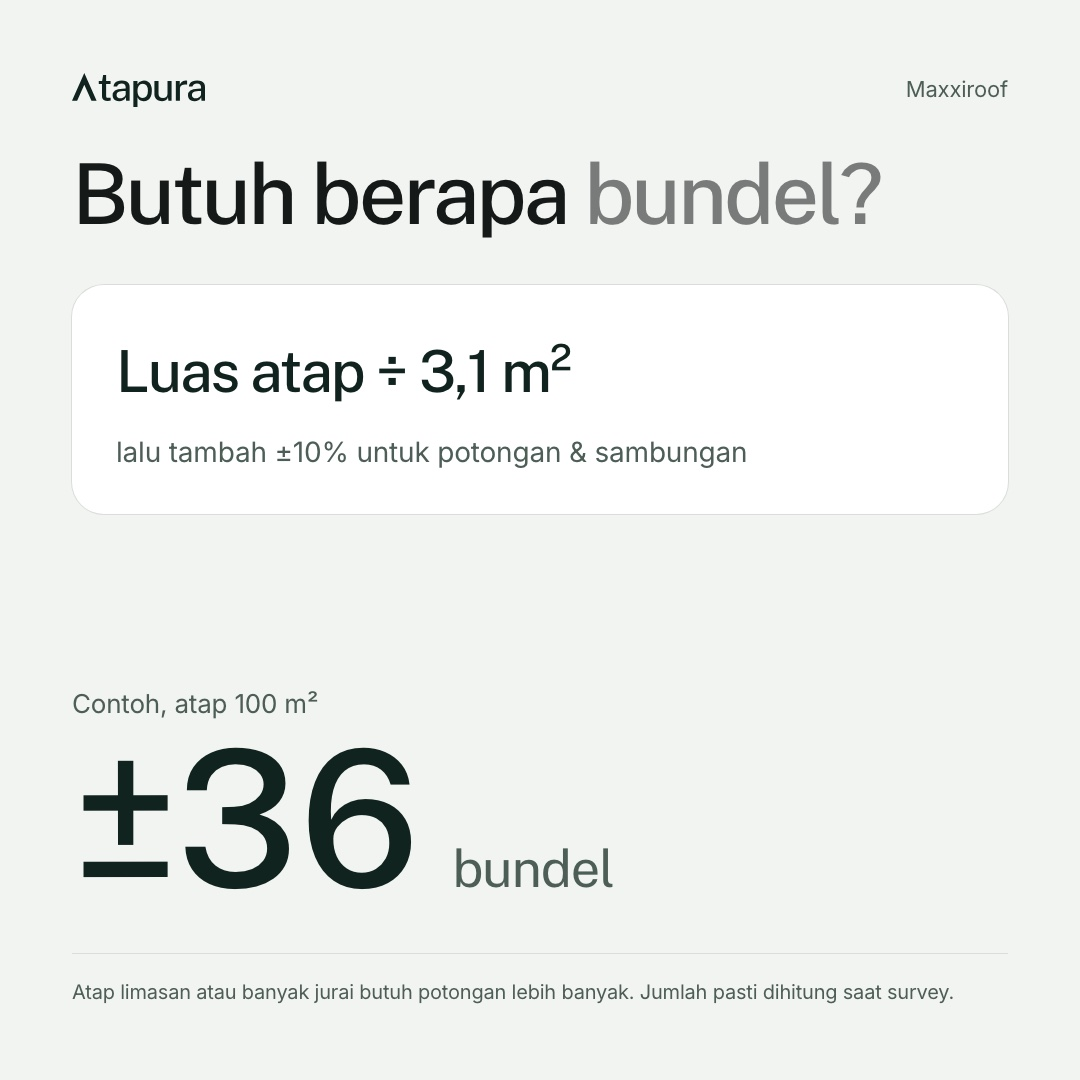
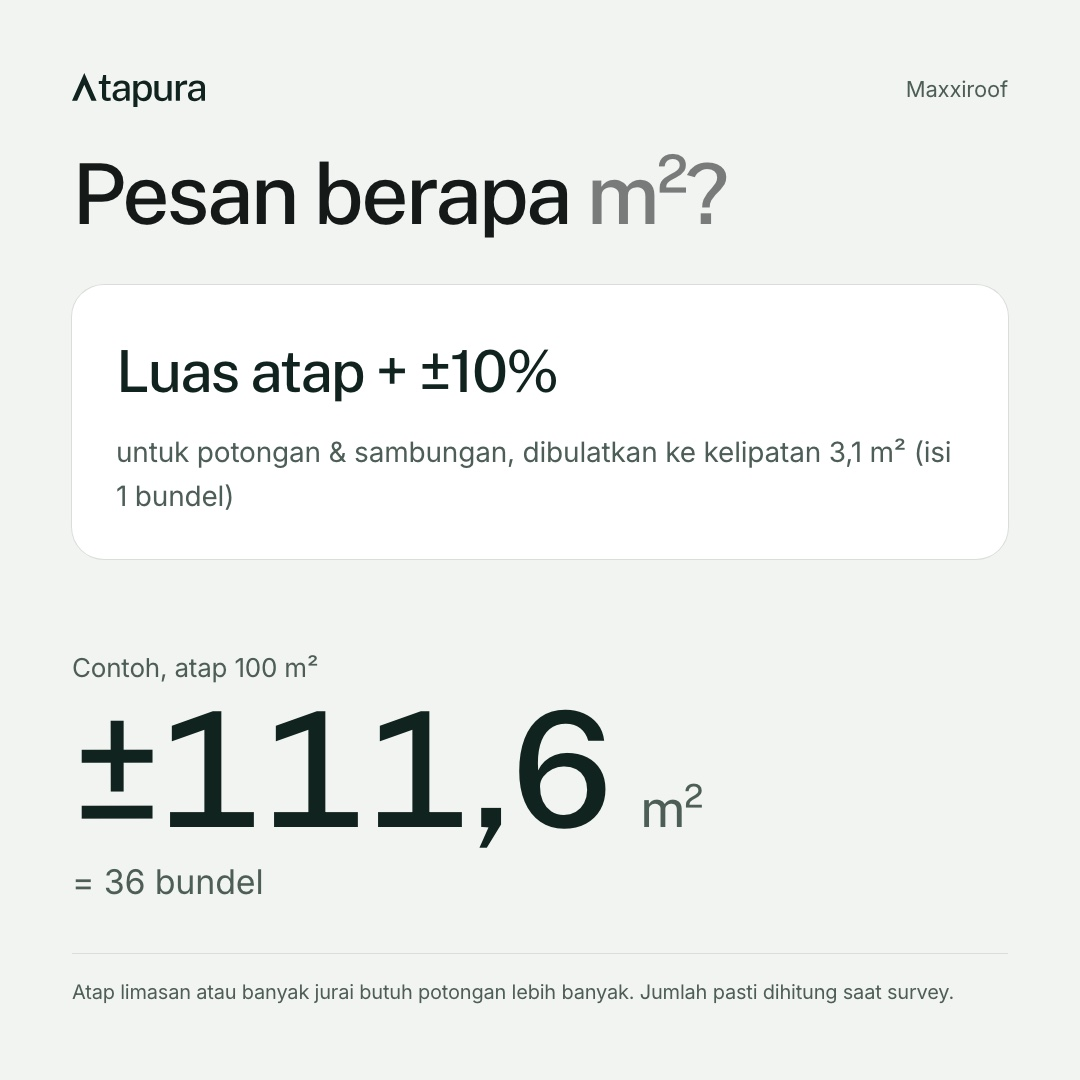
fix(kit-marketplace): genteng dijual per m² — judul, atribut, deskripsi pemesanan, gambar 'Pesan berapa m²?' (revisi Bang Yusuf)

diff --git a/src/data/listing.ts b/src/data/listing.ts
@@ -87,12 +87,13 @@ function listingGenteng(p: Produk, s: Produk['seri'][number]): Listing {
   const warna = warnaSeri(p, p.seri.length ? s.nama : null).flatMap((g) => g.daftar.map((w) => (w.kode ? `${w.nama} (${w.kode})` : w.nama)));
   const contohBundel = m2 ? Math.ceil((100 * (1 + harga.susut)) / m2) : null;
 
+  // Dijual per m² di marketplace (Bang Yusuf 20 Nov); isi bundel ditulis supaya pembeli tahu kelipatan pesanannya.
   const judul = pasJudul(
-    `Genteng Aspal Bitumen ${nm}${m2 ? ` Isi ${angka(m2)} m²/Bundel` : ''}${thGaransi ? ` Garansi ${thGaransi} Tahun` : ''} Atap Shingle`,
-    `Genteng Aspal Bitumen ${nm}${m2 ? ` Isi ${angka(m2)} m²/Bundel` : ''}${thGaransi ? ` Garansi ${thGaransi} Tahun` : ''}`,
-    `Genteng Aspal ${nm}${m2 ? ` ${angka(m2)} m²/Bundel` : ''}`,
+    `Genteng Aspal Bitumen ${nm} per m²${m2 ? ` Isi ${angka(m2)} m²/Bundel` : ''}${thGaransi ? ` Garansi ${thGaransi} Tahun` : ''} Atap Shingle`,
+    `Genteng Aspal Bitumen ${nm} per m²${m2 ? ` Isi ${angka(m2)} m²/Bundel` : ''}${thGaransi ? ` Garansi ${thGaransi} Tahun` : ''}`,
+    `Genteng Aspal ${nm} per m²${m2 ? ` Isi ${angka(m2)} m²/Bundel` : ''}`,
   );
-  const judulPendek = `Genteng Aspal ${nm}${m2 ? ` ${angka(m2)} m²/Bundel` : ''}`.slice(0, 70);
+  const judulPendek = `Genteng Aspal ${nm} per m²`.slice(0, 70);
 
   const deskripsi = rapikan([
     `${nm}, genteng aspal (asphalt shingle)${asal ? ` buatan ${asal}` : ''}. ${bersih(s.ringkas)}`,
@@ -108,8 +109,10 @@ function listingGenteng(p: Produk, s: Produk['seri'][number]): Listing {
     'CARA PASANG',
     'Genteng aspal dipaku di atas papan alas (multiplek atau GRC) yang sudah dilapisi underlayer. Papan alas, underlayer, paku bitumen, dan flashing tersedia terpisah di toko kami.',
     '',
-    m2 ? 'HITUNG KEBUTUHAN' : null,
-    m2 ? `Jumlah bundel = luas atap (m²) ÷ ${angka(m2)}, lalu tambah sekitar ${susutPct}% untuk potongan dan sambungan. Contoh: atap 100 m² butuh ±${contohBundel} bundel.` : null,
+    'HARGA & PEMESANAN',
+    m2
+      ? `Harga per m². Genteng dikirim per bundel isi ${angka(m2)} m², jadi jumlah pesanan dibulatkan ke kelipatan ${angka(m2)} m². Hitung kebutuhan: luas atap ditambah sekitar ${susutPct}% untuk potongan dan sambungan. Contoh: atap 100 m² → pesan ±${angka(contohBundel! * m2)} m² (${contohBundel} bundel).`
+      : 'Harga per m². Genteng dikirim per bundel; chat kami untuk isi bundel dan jumlah pesanan.',
     '',
     garansi ? 'GARANSI' : null,
     garansi ? `Garansi pabrik ${garansi}, mengikuti syarat dokumen garansi pabrik.` : null,
@@ -122,7 +125,7 @@ function listingGenteng(p: Produk, s: Produk['seri'][number]): Listing {
     id: p.seri.length ? `${p.slug}-${s.nama.toLowerCase().replace(/[^a-z0-9]+/g, '-')}` : p.slug,
     kelompok: 'genteng',
     nama: nm,
-    satuan: 'bundel',
+    satuan: 'm²',
     judul,
     judulPendek,
     deskripsi,
@@ -133,6 +136,7 @@ function listingGenteng(p: Produk, s: Produk['seri'][number]): Listing {
       asal ? { label: 'Negara asal', nilai: asal } : null,
       { label: 'Jenis', nilai: 'Genteng aspal (asphalt shingle)' },
       ukuran ? { label: 'Ukuran per lembar', nilai: ukuran } : null,
+      { label: 'Satuan jual', nilai: m2 ? `per m², dikirim per bundel isi ${angka(m2)} m²` : 'per m², dikirim per bundel' },
       m2 ? { label: 'Isi per kemasan', nilai: `${angka(m2)} m² per bundel` } : null,
       garansi ? { label: 'Garansi', nilai: `${garansi} (pabrik)` } : null,
       { label: 'Kondisi', nilai: 'Baru' },

diff --git a/docs/DECISIONS.md b/docs/DECISIONS.md
@@ -307,3 +307,9 @@ di gambar marketplace). Infografis disusun dari data, bukan AI, supaya angka & t
 seri lewat `warnaSeri` (judul grup "CT3 · warna solid", "CT5 dan CT6", dll. sebelumnya tidak cocok → CT3/CT5/CT6/Eco Roof/
 Top Shingles tanpa varian di kit), Javabitumen (tanpa seri) kini satu listing. Gambar tidak dibuat ulang di CI: jalankan
 ulang `npm run aset-marketplace` bila spesifikasi/warna berubah. Cover genteng (latar putih, Magnific) menunggu ok Rama (039).
+
+## 060 · 20 November 2026 · Genteng di marketplace dijual per m² (revisi Bang Yusuf)
+Bang Yusuf: "Untuk di marketplace harga yg kita list /m2. Contoh 155.000 (CTI CT3)". Kit listing: satuan genteng m², judul
+"… per m² Isi X m²/Bundel …", atribut "Satuan jual: per m², dikirim per bundel isi X m²", deskripsi bagian HARGA & PEMESANAN
+(pesanan dibulatkan ke kelipatan isi bundel + contoh 100 m²). Gambar 4 jadi "Pesan berapa m²?" (luas + ±10%, kelipatan isi
+bundel, contoh m² & jumlah bundel). Ops → Harga marketplace ikut per m² (Ops commit cde1e9c).
